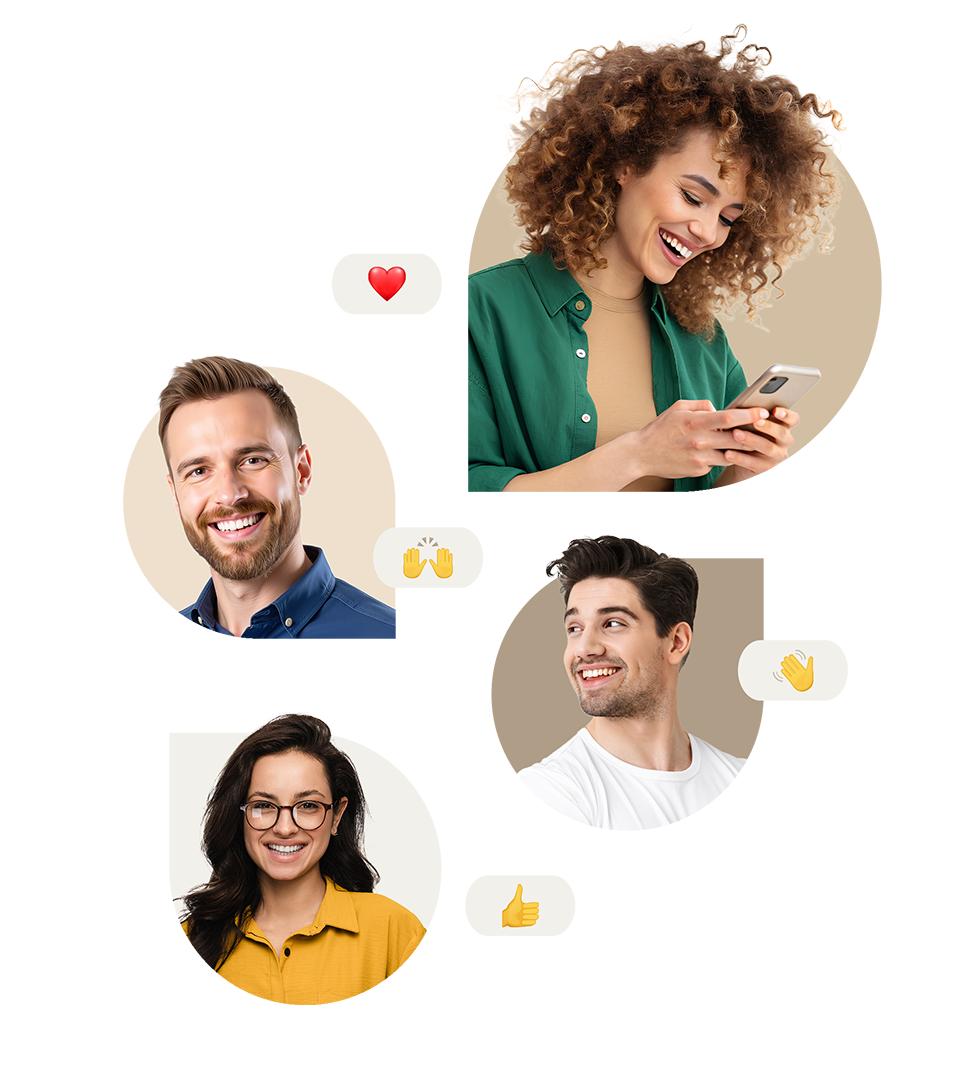
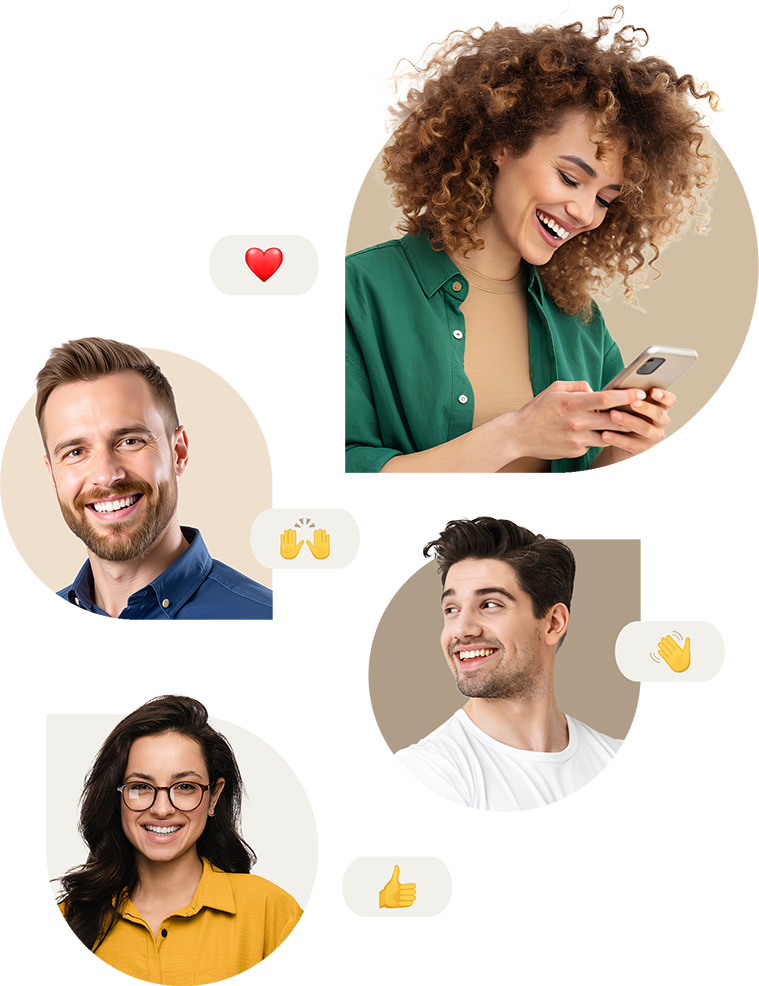
updated about us image

diff --git a/app/about/page.tsx b/app/about/page.tsx
@@ -35,7 +35,7 @@ export default function AboutPage() {
                 src="/website png-05.png?height=500&width=500" 
                 alt="Creative work environment"
                 width={700} 
-                height={700}
+                height={500}
                 // className="rounded-full border-4 border-white shadow-xl"
               />
               <div className="absolute -bottom-4 -right-4 w-32 h-32 rounded-full bg-[#d4b88e] -z-10"></div>
